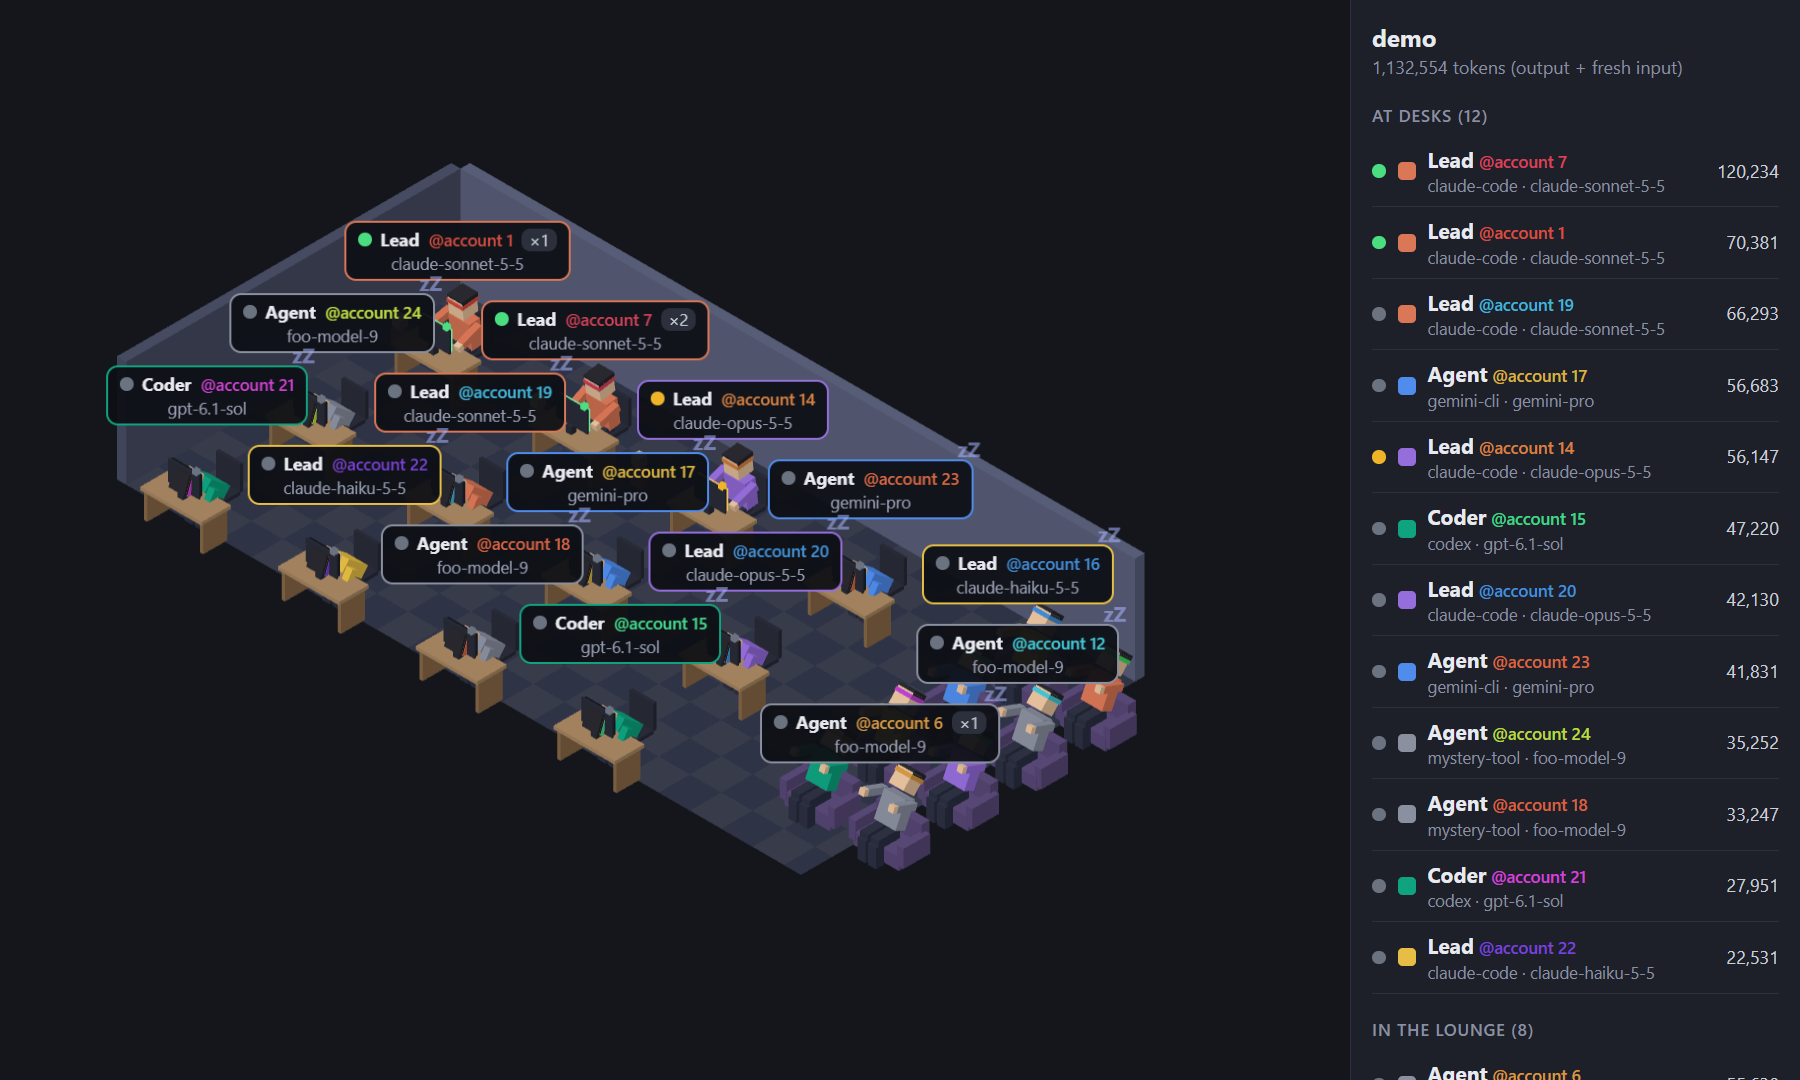
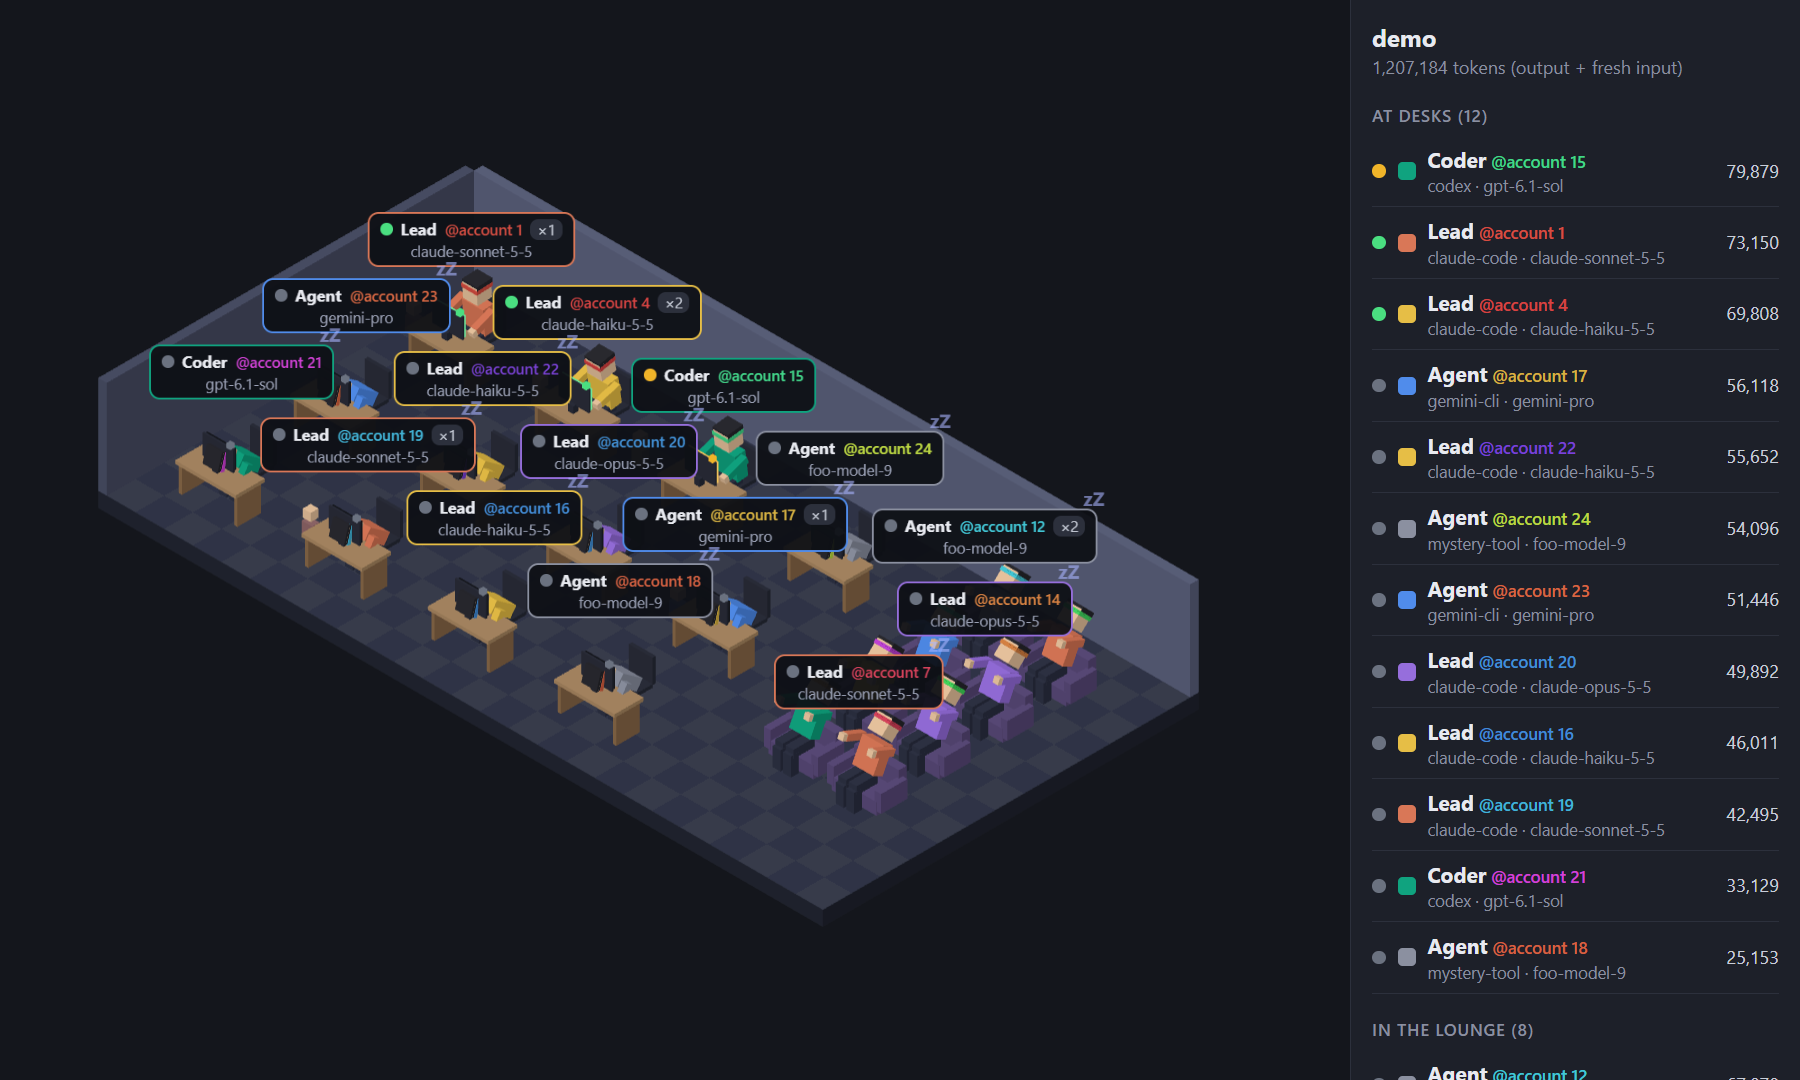
Fix the floor: room for interns, whole tiles and a slab edge

diff --git a/test/ui/layout.test.ts b/test/ui/layout.test.ts
@@ -1,5 +1,5 @@
 import { describe, expect, it } from "vitest";
-import { computeLayout, type LayoutChar, roomSize } from "../../ui/src/scene/layout.js";
+import { computeLayout, deskPosition, INTERN_REACH, type LayoutChar, roomSize, seatPosition } from "../../ui/src/scene/layout.js";
 
 const T = Date.parse("2026-11-10T10:00:00.000Z");
 const ch = (key: string, status: LayoutChar["status"], agoSec = 0): LayoutChar => ({
@@ -64,6 +64,29 @@ describe("computeLayout", () => {
     const chars = [...Array.from({ length: 12 }, (_, i) => ch(`a${i}`, "working")), ch("z", "sleeping")];
     const withLounge = roomSize(computeLayout(chars, undefined, OPTS));
     expect(withLounge.w).toBeGreaterThan(noLounge.w);
+  });
+
+  it("the floor always has room for every desk, its interns and every sofa, in whole tiles", () => {
+    for (let n = 0; n <= 45; n++) {
+      for (const sleepers of [0, Math.floor(n / 2), n]) {
+        const chars = Array.from({ length: n }, (_, i) => ch(`c${i}`, i < sleepers ? "sleeping" : "working", i * 10));
+        const l = computeLayout(chars, undefined, OPTS);
+        const { w, d } = roomSize(l);
+        expect(w % 2).toBe(0);
+        expect(d % 2).toBe(0);
+        for (const slot of l.desks.values()) {
+          const p = deskPosition(slot, l.cols);
+          expect(p.x - INTERN_REACH.x).toBeGreaterThanOrEqual(0);
+          expect(p.x + INTERN_REACH.x).toBeLessThanOrEqual(w);
+          expect(p.z + INTERN_REACH.front).toBeLessThanOrEqual(d);
+        }
+        for (const seat of l.lounge.values()) {
+          const p = seatPosition(seat, l.cols);
+          expect(p.x + 1).toBeLessThanOrEqual(w);
+          expect(p.z + 1).toBeLessThanOrEqual(d);
+        }
+      }
+    }
   });
 
   it("handles an empty office", () => {

diff --git a/ui/src/scene/layout.ts b/ui/src/scene/layout.ts
@@ -77,12 +77,18 @@ export function seatPosition(seat: number, cols: number): { x: number; z: number
   return { x: left + 1 + (seat % LOUNGE_COLS) * SEAT_PITCH, z: 2.0 + Math.floor(seat / LOUNGE_COLS) * SEAT_PITCH };
 }
 
-/** Floor size in world units for a layout. */
+/** How far interns stand from a seat position (see interns.ts), including their body: sideways and toward the viewer. */
+export const INTERN_REACH = { x: 2.1, front: 2.8 };
+
+/** Round up to a whole number of 2x2 floor tiles, so the checkerboard is never cut off mid-tile at an edge. */
+const wholeTiles = (n: number) => 2 * Math.ceil(n / 2);
+
+/** Floor size in world units for a layout. Everything placed by deskPosition/seatPosition, interns included, fits inside. */
 export function roomSize(l: Layout): { w: number; d: number } {
-  const deskW = l.cols * PITCH_X + 0.6;
-  const deskD = l.rows * PITCH_Z + 0.4;
+  const deskW = wholeTiles(l.cols * PITCH_X + 0.6);
+  const deskD = wholeTiles(2 + (l.rows - 1) * PITCH_Z + INTERN_REACH.front + 0.5);
   if (l.lounge.size === 0) return { w: deskW, d: deskD };
   const seatRows = Math.ceil(l.lounge.size / LOUNGE_COLS);
   const loungeW = LOUNGE_COLS * SEAT_PITCH + 2;
-  return { w: deskW + 1.5 + loungeW, d: Math.max(deskD, seatRows * SEAT_PITCH + 3) };
+  return { w: wholeTiles(deskW + 1.5 + loungeW), d: Math.max(deskD, wholeTiles(seatRows * SEAT_PITCH + 3)) };
 }

diff --git a/ui/src/scene/room.ts b/ui/src/scene/room.ts
@@ -24,6 +24,7 @@ export class OfficeScene {
   private size = { w: 5, d: 4.4 };
   private sizeTarget = { w: 5, d: 4.4 };
   private floor: THREE.Mesh;
+  private slab: THREE.Mesh;
   private floorTex: THREE.CanvasTexture;
   private wallBack: THREE.Mesh;
   private wallLeft: THREE.Mesh;
@@ -72,7 +73,9 @@ export class OfficeScene {
     this.floor.rotation.x = -Math.PI / 2;
     this.wallBack = box(1, WALL_H, 0.3, mat(COLORS.wallRight));
     this.wallLeft = box(0.3, WALL_H, 1, mat(COLORS.wallLeft));
-    this.scene.add(this.floor, this.wallBack, this.wallLeft);
+    // a slab under the floor, so its front edges have thickness and it reads as a solid floor, not a sheet
+    this.slab = box(1, 0.5, 1, mat(COLORS.slab));
+    this.scene.add(this.floor, this.slab, this.wallBack, this.wallLeft);
 
     addEventListener("resize", () => this.resize());
     this.renderer.domElement.addEventListener("pointermove", (e) => {
@@ -154,6 +157,8 @@ export class OfficeScene {
     this.floor.scale.set(w, d, 1);
     this.floor.position.set(w / 2, 0, d / 2);
     this.floorTex.repeat.set(w / 2, d / 2);
+    this.slab.scale.set(w + 0.3, 0.5, d + 0.3);
+    this.slab.position.set((w - 0.3) / 2, -0.27, (d - 0.3) / 2);
     this.wallBack.scale.set(w, WALL_H, 0.3);
     this.wallBack.position.set(w / 2, WALL_H / 2, -0.15);
     this.wallLeft.scale.set(0.3, WALL_H, d);

diff --git a/ui/src/scene/palette.ts b/ui/src/scene/palette.ts
@@ -8,6 +8,7 @@ export const COLORS = {
   wallRight: 0x5c627c, // wall behind, seen on the right
   wallLeft: 0x4a4f66,
   baseboard: 0x3c4054,
+  slab: 0x232733,
   desk: 0x8a6a4a,
   deskTop: 0xa98863,
   chair: 0x2b2e3a,
